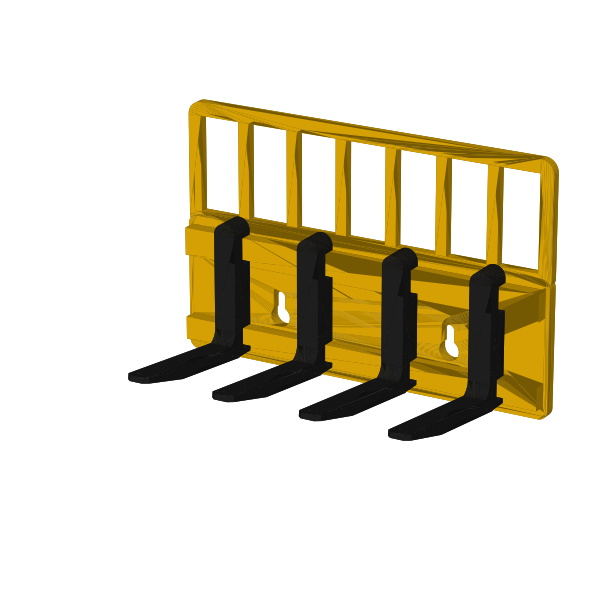
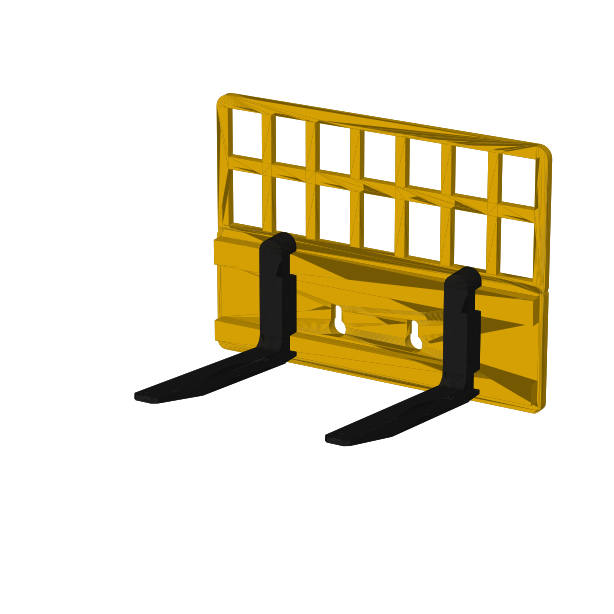
Make the key holder two long forks, set wide like on the machine
Claude-Session: https://claude.ai/code/session_015MkdiVDPB2c5pSTgnAAevv

Changed region(s): [[0.1857, 0.1547, 0.9283, 0.7427]]

diff --git a/forks/make_forks.py b/forks/make_forks.py
@@ -12,12 +12,12 @@ from trimesh.creation import box, cylinder
 W, PLATE_H, PLATE_T = 170, 60, 5          # carriage plate
 BAR_T = 6                                 # carriage bars stand proud by this
 BARS = ((6, 16), (44, 56))                # y-range of bottom and top bar
-REST_H, REST_T, FRAME = 50, 4, 6          # load backrest above the plate
-N_TINES, PITCH = 4, 40                    # tines and their spacing
-SHANK_W, SHANK_T, SHANK_Y = 10, 6, (4, 58)
-BLADE_L, BLADE_T, TAPER_L, TIP_T = 70, 6, 28, 2.5
+REST_H, REST_T, FRAME = 65, 4, 6          # load backrest above the plate
+N_TINES, PITCH = 2, 96                    # two forks, set wide like on the machine
+SHANK_W, SHANK_T, SHANK_Y = 12, 7, (4, 58)
+BLADE_L, BLADE_T, TAPER_L, TIP_T = 110, 7, 40, 2.5
 TILT = 7                                  # degrees of fork tilt-back, keeps keys on
-KEYHOLE_X = (-PITCH, PITCH)               # between the tines, 80 mm screw centres
+KEYHOLE_X = (-20, 20)                     # between the forks, 40 mm screw centres
 SCREW_HEAD, SCREW_SHANK = 9.0, 4.5
 
 def hull(pts): return trimesh.convex.convex_hull(np.array(pts, float))
@@ -44,6 +44,9 @@ gap_w = (inner_x1 - inner_x0 - slat*(n_gaps - 1)) / n_gaps
 windows = [box(bounds=((inner_x0 + i*(gap_w + slat), PLATE_H + 2, -1),
                        (inner_x0 + i*(gap_w + slat) + gap_w, PLATE_H + REST_H - FRAME, 10)))
            for i in range(n_gaps)]
+# horizontal mid rail across the slats, like the backrest in the photo
+windows = [m for w in windows for m in (
+    d(w, box(bounds=((-W, PLATE_H + REST_H/2 - 3, -2), (W, PLATE_H + REST_H/2 + 3, 12)))),)]
 rest = d(rest, *windows)
 
 def keyhole(x, y):
@@ -142,6 +145,6 @@ for _, rgb, m in parts:
     m = m.copy(); m.apply_transform(wall)
     shade = np.clip(m.face_normals @ L, 0.2, 1)[:, None]
     ax.add_collection3d(Poly3DCollection(m.triangles, facecolors=np.array(rgb)/255*(0.35 + 0.65*shade), edgecolor="none"))
-ax.set_xlim(-85, 85); ax.set_ylim(-110, 20); ax.set_zlim(-10, 110); ax.set_box_aspect((170, 130, 120))
+ax.set_xlim(-85, 85); ax.set_ylim(-140, 20); ax.set_zlim(-10, 125); ax.set_box_aspect((170, 160, 135))
 ax.view_init(elev=20, azim=-60); ax.set_axis_off()
 plt.savefig("forks/preview.png", dpi=110, bbox_inches="tight")
